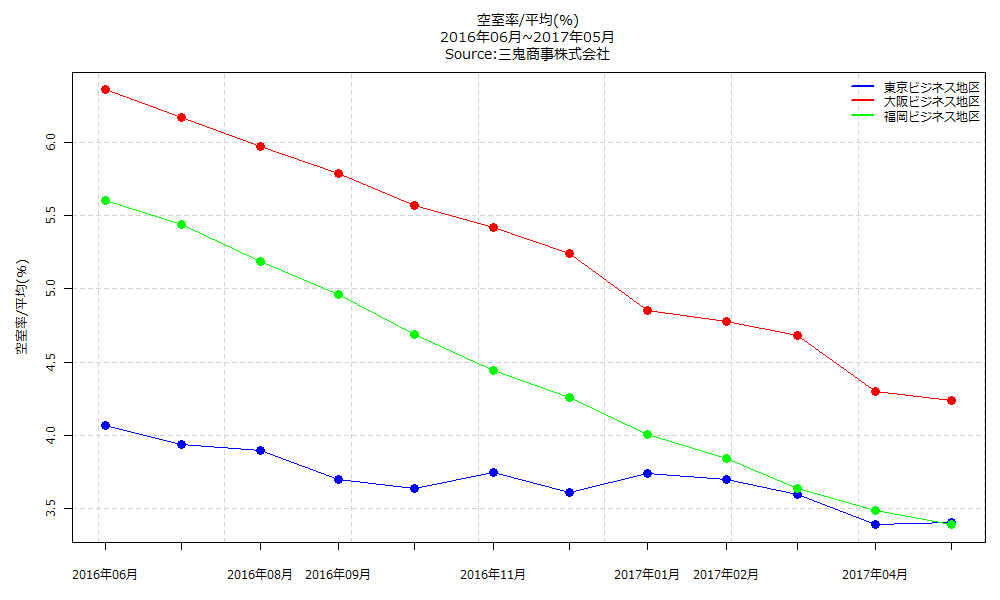
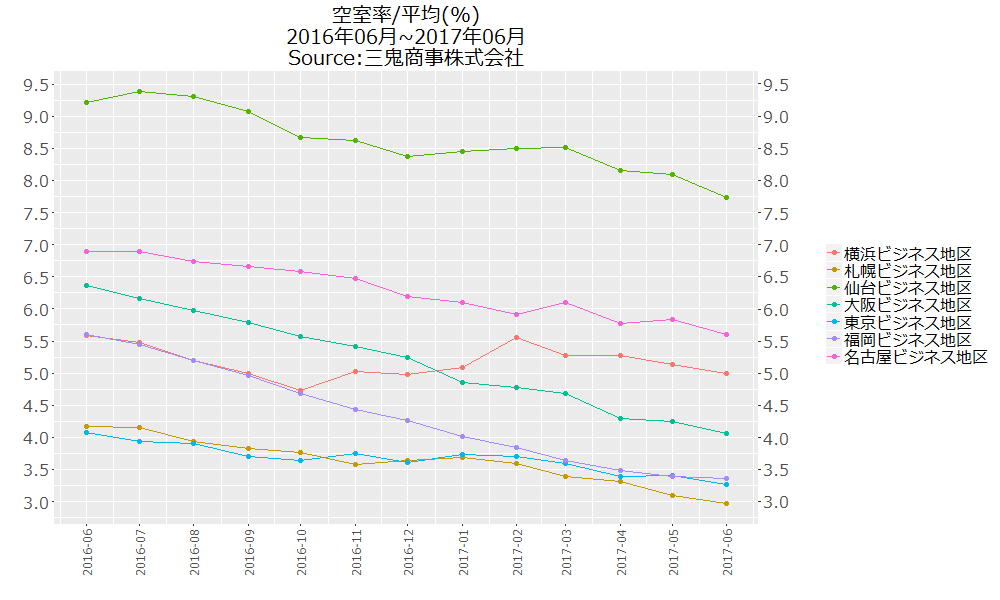
出力png全面的更新
出力png全面的更新

diff --git a/md/20170809-olive.md b/md/20170809-olive.md
@@ -1,79 +1,89 @@
 
 ---
-tags : [特定サービス産業動態売上高指数]
-title : 特定サービス産業動態売上高指数:対事業所サービス業(調査10業種),対個人サービス業(調査9業種)の指数推移:季節調整済指数:2017年06月:特定サービス産業動態統計調査(調査19業種)総合:109.2
+tags : [三鬼商事,空室率]
+title : オフィス空室率(Source:三鬼商事株式会社):2017年06月
 published : true
 ---
 
 
-<a href="http://knowledgevault.saecanet.com/charts/chartImages/SurveyofSelectedServiceIndustries1.png"><img border="0" src="http://knowledgevault.saecanet.com/charts/chartImages/SurveyofSelectedServiceIndustries1.png" width="100%" /></a>
-
-
-<a href="http://knowledgevault.saecanet.com/charts/chartImages/SurveyofSelectedServiceIndustries2.png"><img border="0" src="http://knowledgevault.saecanet.com/charts/chartImages/SurveyofSelectedServiceIndustries2.png" width="100%" /></a>
+<a href="http://knowledgevault.saecanet.com/charts/chartImages/OfficeData1.png"><img border="0" src="http://knowledgevault.saecanet.com/charts/chartImages/OfficeData1.png" width="100%" /></a>
 
 
 ***
 
 
-#### 内閣総理大臣毎の基本統計量
+#### ビジネス地区空室率
 
 
-- 特定サービス産業動態統計調査(調査19業種)総合
+- 2017年06月
 
 
 <table id = 'amcc' width = '100%'>
  <thead>
   <tr>
-   <th style="text-align:left;"> Name </th>
-   <th style="text-align:right;"> Min. </th>
-   <th style="text-align:right;"> 1st Qu. </th>
-   <th style="text-align:right;"> Median </th>
-   <th style="text-align:right;"> Mean </th>
-   <th style="text-align:right;"> 3rd Qu. </th>
-   <th style="text-align:right;"> Max. </th>
-   <th style="text-align:left;"> Period </th>
+   <th style="text-align:left;"> 地区 </th>
+   <th style="text-align:right;"> 空室のあるビル比率(%) </th>
+   <th style="text-align:right;"> 空室率/平均(%) </th>
+   <th style="text-align:right;"> 空室率/新築ビル </th>
+   <th style="text-align:right;"> 空室率/既存ビル </th>
   </tr>
  </thead>
 <tbody>
   <tr>
-   <td style="text-align:left;"> 鳩山由紀夫 </td>
-   <td style="text-align:right;"> 97.4 </td>
-   <td style="text-align:right;"> 99.1 </td>
-   <td style="text-align:right;"> 100.2 </td>
-   <td style="text-align:right;"> 100.3 </td>
-   <td style="text-align:right;"> 101.3 </td>
-   <td style="text-align:right;"> 102.5 </td>
-   <td style="text-align:left;"> 2009年10月~2010年06月 </td>
+   <td style="text-align:left;"> 札幌ビジネス地区 </td>
+   <td style="text-align:right;"> 42.78 </td>
+   <td style="text-align:right;"> 2.97 </td>
+   <td style="text-align:right;"> 0 </td>
+   <td style="text-align:right;"> 2.99 </td>
   </tr>
   <tr>
-   <td style="text-align:left;"> 菅直人 </td>
-   <td style="text-align:right;"> 92.9 </td>
-   <td style="text-align:right;"> 98.75 </td>
-   <td style="text-align:right;"> 99.5 </td>
-   <td style="text-align:right;"> 99.28 </td>
-   <td style="text-align:right;"> 100.75 </td>
-   <td style="text-align:right;"> 101.7 </td>
-   <td style="text-align:left;"> 2010年07月~2011年09月 </td>
+   <td style="text-align:left;"> 仙台ビジネス地区 </td>
+   <td style="text-align:right;"> 70.66 </td>
+   <td style="text-align:right;"> 7.74 </td>
+   <td style="text-align:right;"> 1.25 </td>
+   <td style="text-align:right;"> 7.77 </td>
   </tr>
   <tr>
-   <td style="text-align:left;"> 野田佳彦 </td>
-   <td style="text-align:right;"> 99.2 </td>
-   <td style="text-align:right;"> 101.35 </td>
-   <td style="text-align:right;"> 102.1 </td>
-   <td style="text-align:right;"> 101.97 </td>
-   <td style="text-align:right;"> 102.5 </td>
-   <td style="text-align:right;"> 104.8 </td>
-   <td style="text-align:left;"> 2011年10月~2012年12月 </td>
+   <td style="text-align:left;"> 東京ビジネス地区 </td>
+   <td style="text-align:right;"> 24.38 </td>
+   <td style="text-align:right;"> 3.26 </td>
+   <td style="text-align:right;"> 28.18 </td>
+   <td style="text-align:right;"> 2.87 </td>
   </tr>
   <tr>
-   <td style="text-align:left;"> 安倍晋三(2,3) </td>
-   <td style="text-align:right;"> 98.8 </td>
-   <td style="text-align:right;"> 105.65 </td>
-   <td style="text-align:right;"> 106.75 </td>
-   <td style="text-align:right;"> 106.65 </td>
-   <td style="text-align:right;"> 107.97 </td>
-   <td style="text-align:right;"> 111.3 </td>
-   <td style="text-align:left;"> 2013年01月~2017年06月 </td>
+   <td style="text-align:left;"> 横浜ビジネス地区 </td>
+   <td style="text-align:right;"> 50.12 </td>
+   <td style="text-align:right;"> 5 </td>
+   <td style="text-align:right;"> NA </td>
+   <td style="text-align:right;"> 5 </td>
+  </tr>
+  <tr>
+   <td style="text-align:left;"> 名古屋ビジネス地区 </td>
+   <td style="text-align:right;"> 56.2 </td>
+   <td style="text-align:right;"> 5.6 </td>
+   <td style="text-align:right;"> 17.17 </td>
+   <td style="text-align:right;"> 5.29 </td>
+  </tr>
+  <tr>
+   <td style="text-align:left;"> 大阪ビジネス地区 </td>
+   <td style="text-align:right;"> 61.65 </td>
+   <td style="text-align:right;"> 4.06 </td>
+   <td style="text-align:right;"> 0.72 </td>
+   <td style="text-align:right;"> 4.09 </td>
+  </tr>
+  <tr>
+   <td style="text-align:left;"> 福岡ビジネス地区 </td>
+   <td style="text-align:right;"> 48.72 </td>
+   <td style="text-align:right;"> 3.36 </td>
+   <td style="text-align:right;"> 4.03 </td>
+   <td style="text-align:right;"> 3.35 </td>
+  </tr>
+  <tr>
+   <td style="text-align:left;"> 福岡ビジネス地区 </td>
+   <td style="text-align:right;"> 48.72 </td>
+   <td style="text-align:right;"> 3.36 </td>
+   <td style="text-align:right;"> 4.03 </td>
+   <td style="text-align:right;"> 3.35 </td>
   </tr>
 </tbody>
 </table>
@@ -81,7 +91,7 @@ published : true
 ## データテーブル･チャート
 
 
-Link : [データテーブル･チャート](http://knowledgevault.saecanet.com/charts/am-consulting.co.jp-SurveyofSelectedServiceIndustries.html)
+Link : [データテーブル･チャート](http://knowledgevault.saecanet.com/charts/am-consulting.co.jp-OfficeData.html)
 
 
-<iframe src="http://knowledgevault.saecanet.com/charts/am-consulting.co.jp-SurveyofSelectedServiceIndustries.html" width="100%" height="1200px"></iframe>
+<iframe src="http://knowledgevault.saecanet.com/charts/am-consulting.co.jp-OfficeData.html" width="100%" height="1200px"></iframe>
